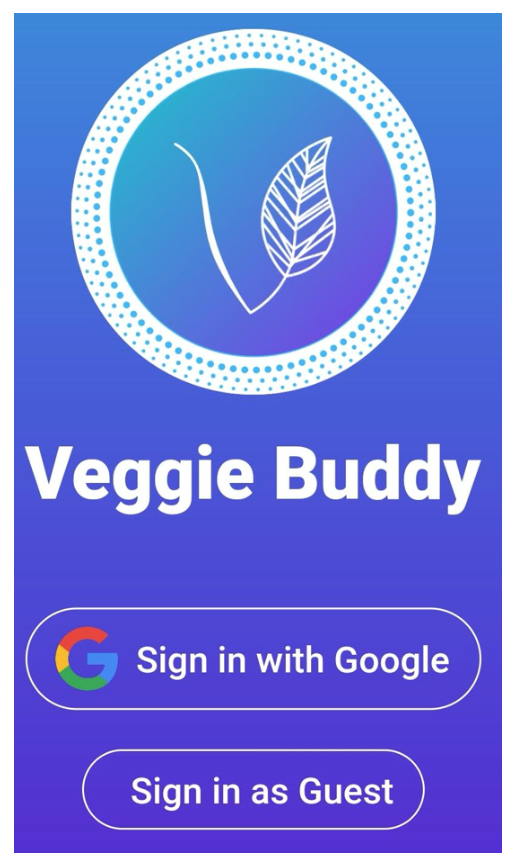
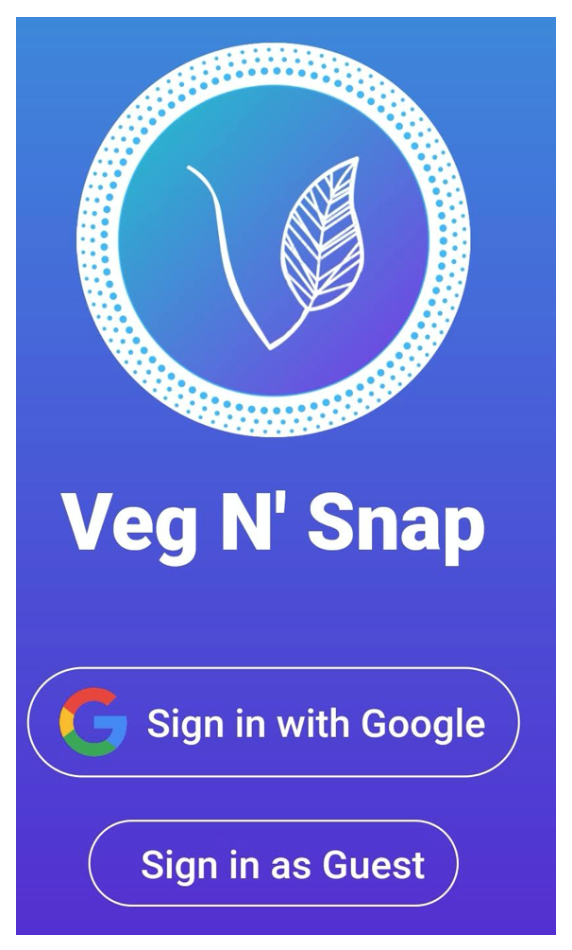
new name

diff --git a/lib/loginPage.dart b/lib/loginPage.dart
@@ -1,10 +1,10 @@
-import 'package:VeggieBuddie/homePage.dart';
+import 'package:VegNSnap/homePage.dart';
 import 'package:flutter/material.dart';
 import 'package:firebase_auth/firebase_auth.dart';
 import 'package:flutter/services.dart';
 import 'package:google_sign_in/google_sign_in.dart';
 import 'package:firebase_database/firebase_database.dart';
-import 'package:VeggieBuddie/cameraPage.dart';
+import 'package:VegNSnap/cameraPage.dart';
 import 'package:camera/camera.dart';
 
 final databaseReference = FirebaseDatabase.instance.reference();
@@ -101,7 +101,7 @@ class _LoginPageState extends State<LoginPage> {
               SizedBox(height: 20),
               Directionality(
                 textDirection: TextDirection.ltr,
-                child:Text("Veggie Buddy",style: TextStyle(fontSize: 40,color: Colors.white,fontWeight: FontWeight.w900,),),
+                child:Text("Veg N' Snap",style: TextStyle(fontSize: 40,color: Colors.white,fontWeight: FontWeight.w900,),),
               ),
               SizedBox(height: 50),
               Directionality(
@@ -161,7 +161,7 @@ class _LoginPageState extends State<LoginPage> {
       splashColor: Colors.white,
       onPressed: () async {
         name = "Guest";
-        email = "guest@veggiebuddie.com";
+        email = "guest@vegn'snap.com";
         index = "guest";
         await createRecord();
         runApp(Home());

diff --git a/lib/onboardingscreen.dart b/lib/onboardingscreen.dart
@@ -1,7 +1,7 @@
-import 'package:VeggieBuddie/loginPage.dart';
+import 'package:VegNSnap/loginPage.dart';
 import 'package:flutter/material.dart';
 import 'package:flutter/services.dart';
-import 'package:VeggieBuddie/styles.dart';
+import 'package:VegNSnap/styles.dart';
 
 class OnboardingScreen extends StatefulWidget {
   @override
@@ -88,10 +88,14 @@ class _OnboardingScreenState extends State<OnboardingScreen> {
                           child: Column(
                          crossAxisAlignment: CrossAxisAlignment.start,
                           children: <Widget>[
-                            SizedBox(height: 200),
+                            Center(
+                              child: Image(image: AssetImage("images/icon.png"), height: 200.0),
+                            ),
+
+                            SizedBox(height: 30),
                             Center(
                               child:
-                            Text("Welcome to\n     Veggie Buddy!",
+                            Text("Welcome to\n           Veg N' Snap!",
                               style:TextStyle(
                                   fontSize: 35,
                                   color: Colors.white,

diff --git a/lib/cameraPage.dart b/lib/cameraPage.dart
@@ -5,8 +5,8 @@ import 'package:flutter/material.dart';
 import 'package:path_provider/path_provider.dart';
 import 'package:firebase_ml_vision/firebase_ml_vision.dart';
 import 'package:flutter/services.dart';
-import 'package:VeggieBuddie/loginPage.dart';
-import 'package:VeggieBuddie/ProfilePage.dart';
+import 'package:VegNSnap/loginPage.dart';
+import 'package:VegNSnap/ProfilePage.dart';
 import 'package:firebase_database/firebase_database.dart';
 import 'package:flutter/services.dart' show DeviceOrientation, rootBundle;
 

diff --git a/lib/main.dart b/lib/main.dart
@@ -1,10 +1,10 @@
 import 'dart:async';
 
 import 'package:flutter/material.dart';
-import 'package:VeggieBuddie/loginPage.dart';
-import 'package:VeggieBuddie/onboardingscreen.dart';
+import 'package:VegNSnap/loginPage.dart';
+import 'package:VegNSnap/onboardingscreen.dart';
 import 'package:camera/camera.dart';
-import 'package:VeggieBuddie/cameraPage.dart';
+import 'package:VegNSnap/cameraPage.dart';
 import 'package:shared_preferences/shared_preferences.dart';
 
 int initScreen;

diff --git a/lib/homePage.dart b/lib/homePage.dart
@@ -1,6 +1,6 @@
 import 'package:flutter/material.dart';
-import 'package:VeggieBuddie/cameraPage.dart';
-import 'package:VeggieBuddie/ProfilePage.dart';
+import 'package:VegNSnap/cameraPage.dart';
+import 'package:VegNSnap/ProfilePage.dart';
 import 'package:flutter/services.dart';
 
 void main(){

diff --git a/lib/ProfilePage.dart b/lib/ProfilePage.dart
@@ -1,5 +1,5 @@
 import 'package:flutter/material.dart';
-import 'package:VeggieBuddie/loginPage.dart';
+import 'package:VegNSnap/loginPage.dart';
 import 'package:firebase_database/firebase_database.dart';
 import 'package:shared_preferences/shared_preferences.dart';
 
